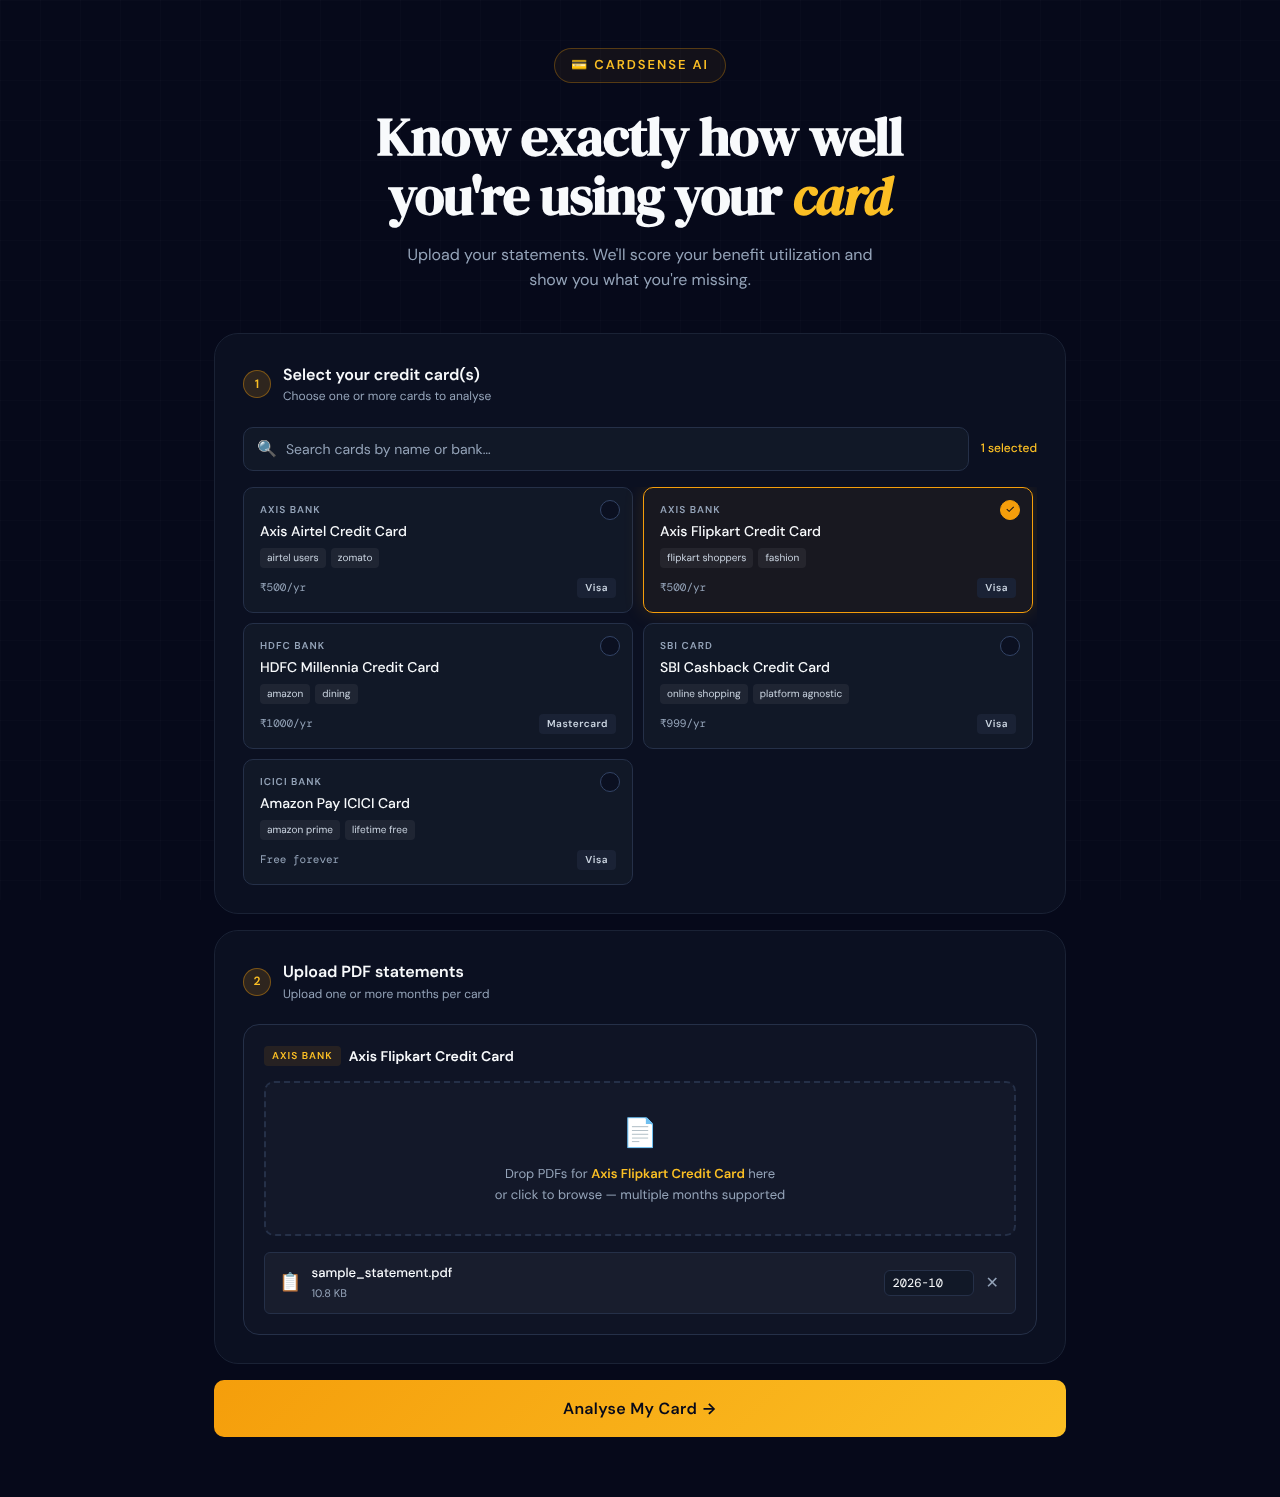
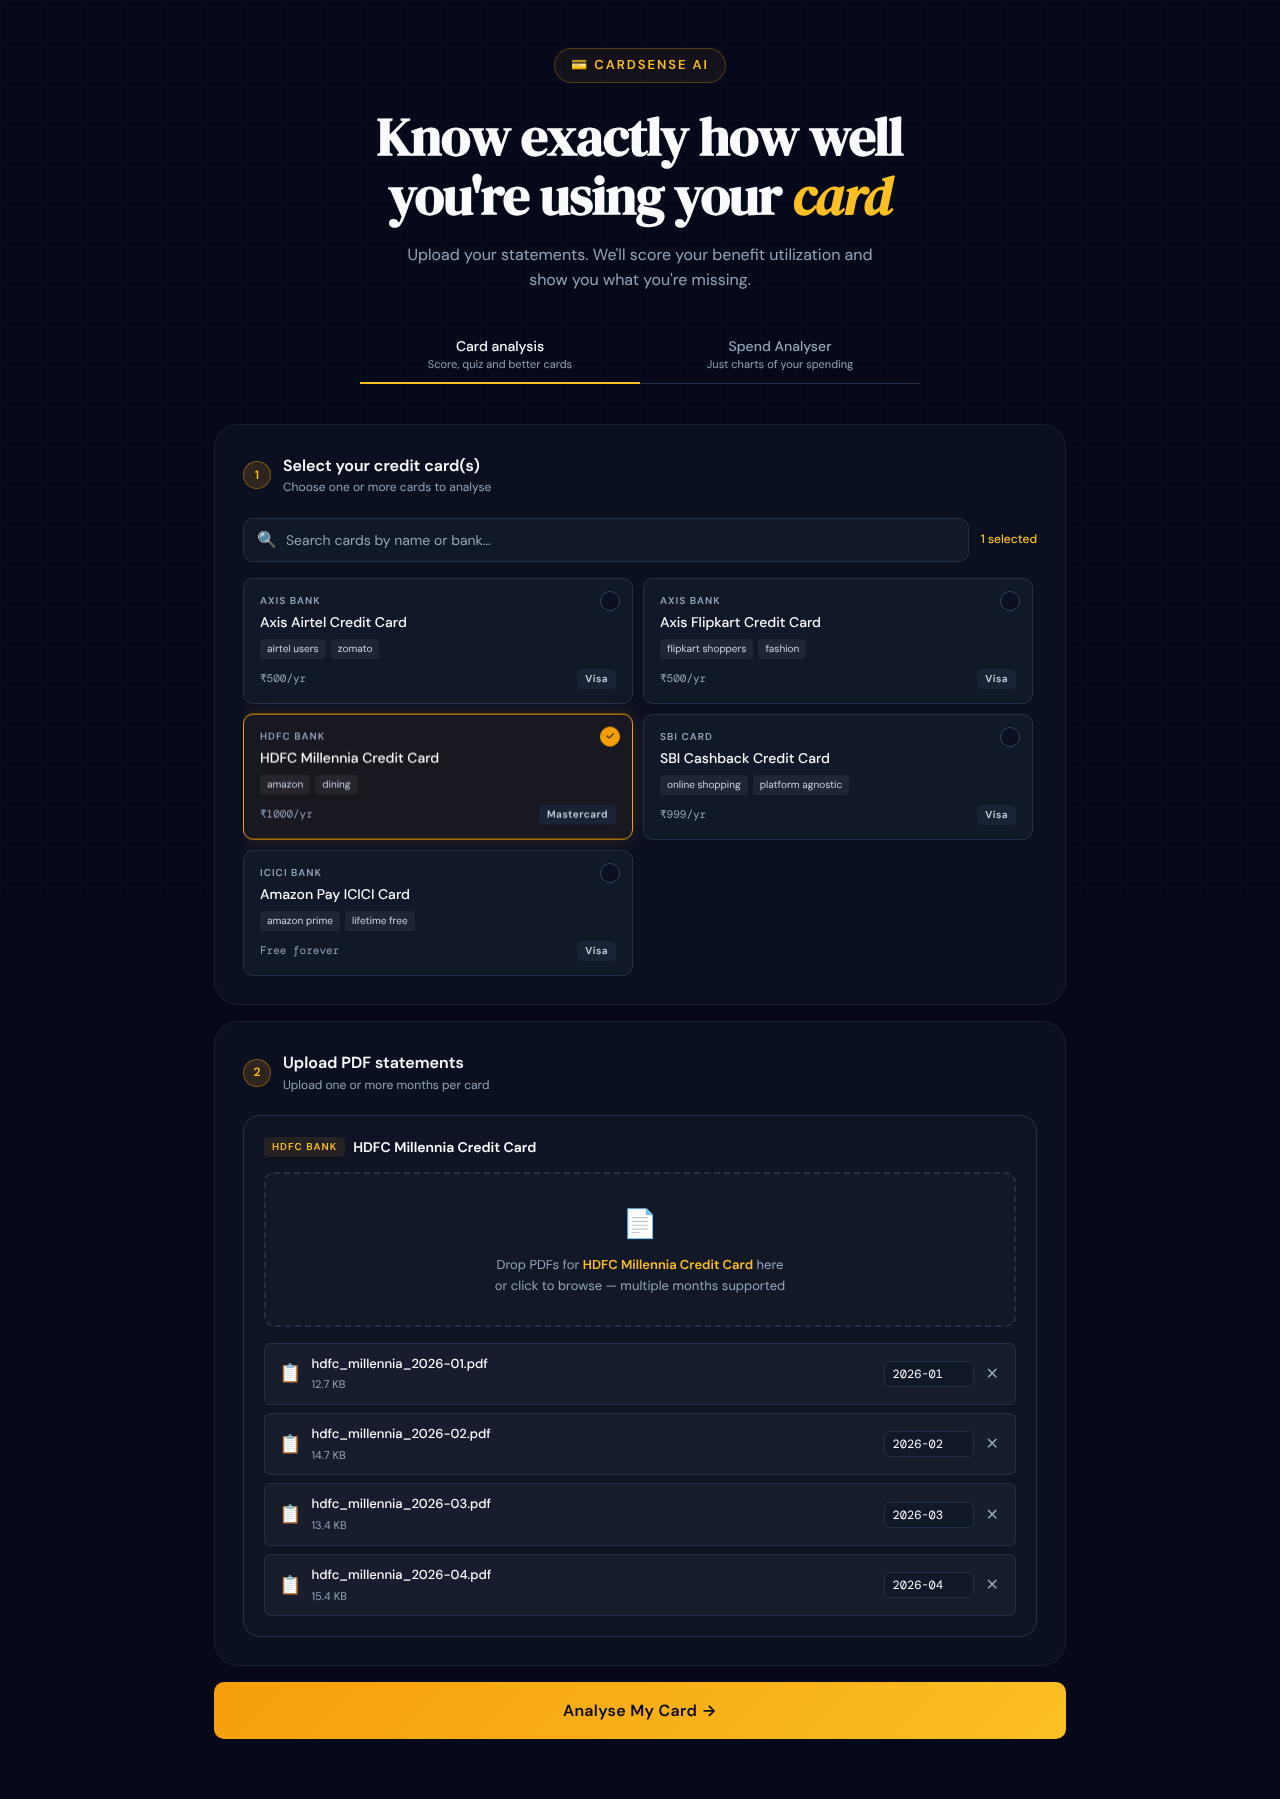
Refresh README demo GIF and screenshots for the new tabs and standalone analyser
The GIF now shows the full-screen loaders, the Results / Analyse
spending tabs and the standalone Spend Analyser. Screenshots are
retaken from real runs on generated statements.

diff --git a/README.md b/README.md
@@ -12,11 +12,11 @@
 CardSense reads Indian credit card statement PDFs (including password-protected ones), extracts every transaction with an LLM, asks a few targeted questions about how you use the card, and scores your benefit utilization from 0 to 100. It then searches a database of cards by vector similarity and ranks better-fitting alternatives for your actual spending.
 
 <p align="center">
-  <img src="docs/demo.gif" alt="Demo: uploading four months of statements, answering the quiz, viewing results and exploring the Spend Analyser" width="820">
+  <img src="docs/demo.gif" alt="Demo: uploading four months of statements, answering the quiz, viewing results, switching to the Analyse spending tab, then using the standalone Spend Analyser" width="820">
 </p>
 
 <p align="center">
-  <img src="docs/screenshots/results.png" alt="Results page: utilization score, cashback breakdown by category, and card recommendations" width="720">
+  <img src="docs/screenshots/results.png" alt="Results page with Results and Analyse spending tabs: utilization score, cashback breakdown by category, and card recommendations" width="720">
 </p>
 
 > The demo and screenshots use generated sample statements, not real financial data.
@@ -53,9 +53,9 @@ The benchmark has already paid for itself: it caught long statements silently lo
 |---|---|
 | ![Card selection and PDF upload](docs/screenshots/upload.png) | ![Yes/no question about a spending category](docs/screenshots/quiz.png) |
 
-**Spend Analyser**
-
-![Spend Analyser: monthly spend by category with a month selected for comparison](docs/screenshots/analyser.png)
+| Analyse spending tab | Standalone Spend Analyser |
+|---|---|
+| ![Analyse spending tab: monthly spend by category with a month selected for comparison](docs/screenshots/analyser.png) | ![Standalone Spend Analyser upload page, reached from the switch on the home page](docs/screenshots/spend.png) |
 
 ## Architecture
 
